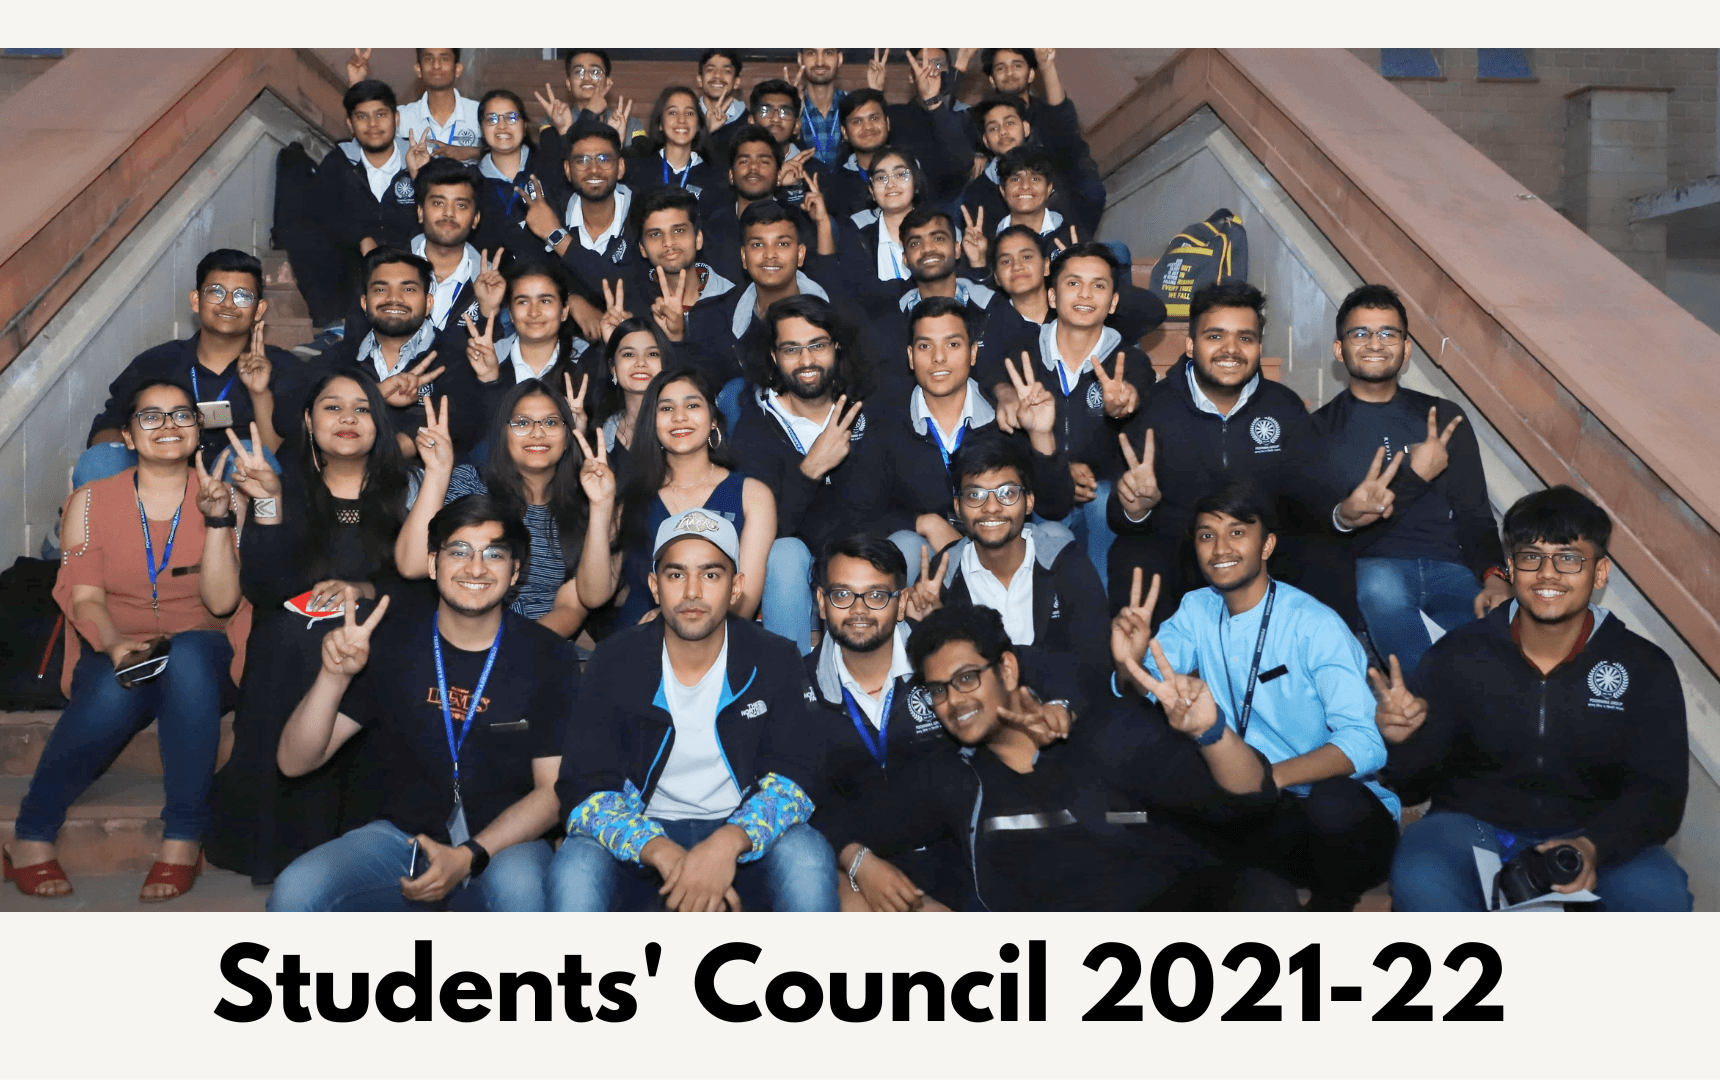
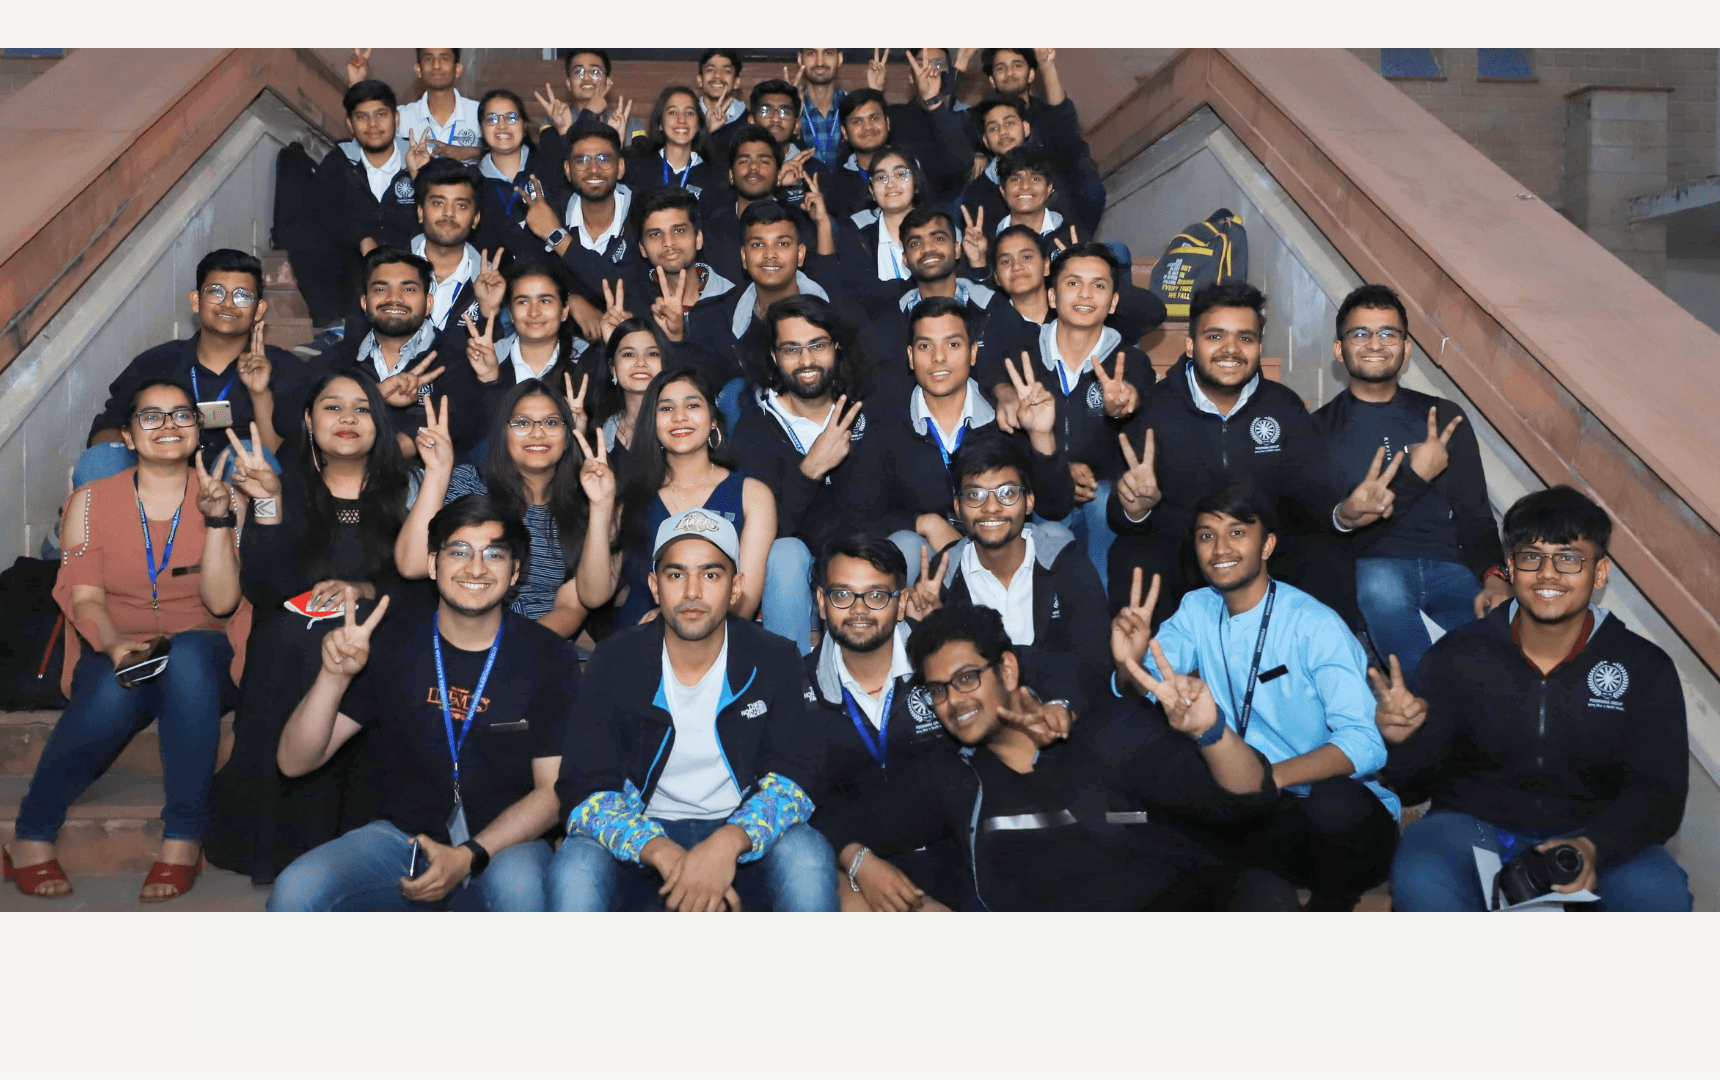
V3

Changed region(s): [[0.1233, 0.8556, 0.8936, 0.9472]]

diff --git a/index.html b/index.html
@@ -19,6 +19,7 @@
 	<link href="webflow.css" rel="stylesheet" type="text/css" />
 	<style>
 		@media (min-width:992px) {
+			
 			html.w-mod-js:not(.w-mod-ix) [data-w-id="697d02a9-65dd-8d45-8c61-f13fd234974d"] {
 				opacity: 1;
 			}
@@ -1323,7 +1324,14 @@
 	</div>
 	<div data-w-id="606a0e05-a512-3e03-745e-8123ddf930c1" class="text-block-parent-1"><img
 			sizes="(max-width: 1280px) 100vw, 1280px" data-w-id="d927dd04-0c72-948e-6fa1-5a00951da241" alt=""
-			class="people" /></div>
+			class="people" /><p id="council" style="
+			position: absolute;
+			top: 46rem;
+			color: black;
+			font-family: sans-serif;
+			font-size: 3.5rem;
+			font-weight: bold;
+		">Students' Council 2021-22</p></div>
 	<div id="gallery" data-w-id="d94b74cc-b7e0-89d2-0bb5-445beb26e074" class="scroll-container-3">
 		<div class="sticky-container-3">
 			<div class="gallery-container">

diff --git a/webflow.css b/webflow.css
@@ -2040,8 +2040,9 @@ li {
 }
 
 @media (max-width: 991px) {
-  .text-block-parent-1{
-    background-image: url(img/counciland.png);
+  #council{
+    top: 26rem !important;
+    font-size: 1.5rem !important;
   }
   .sub-title{
     font-size: 60px;
